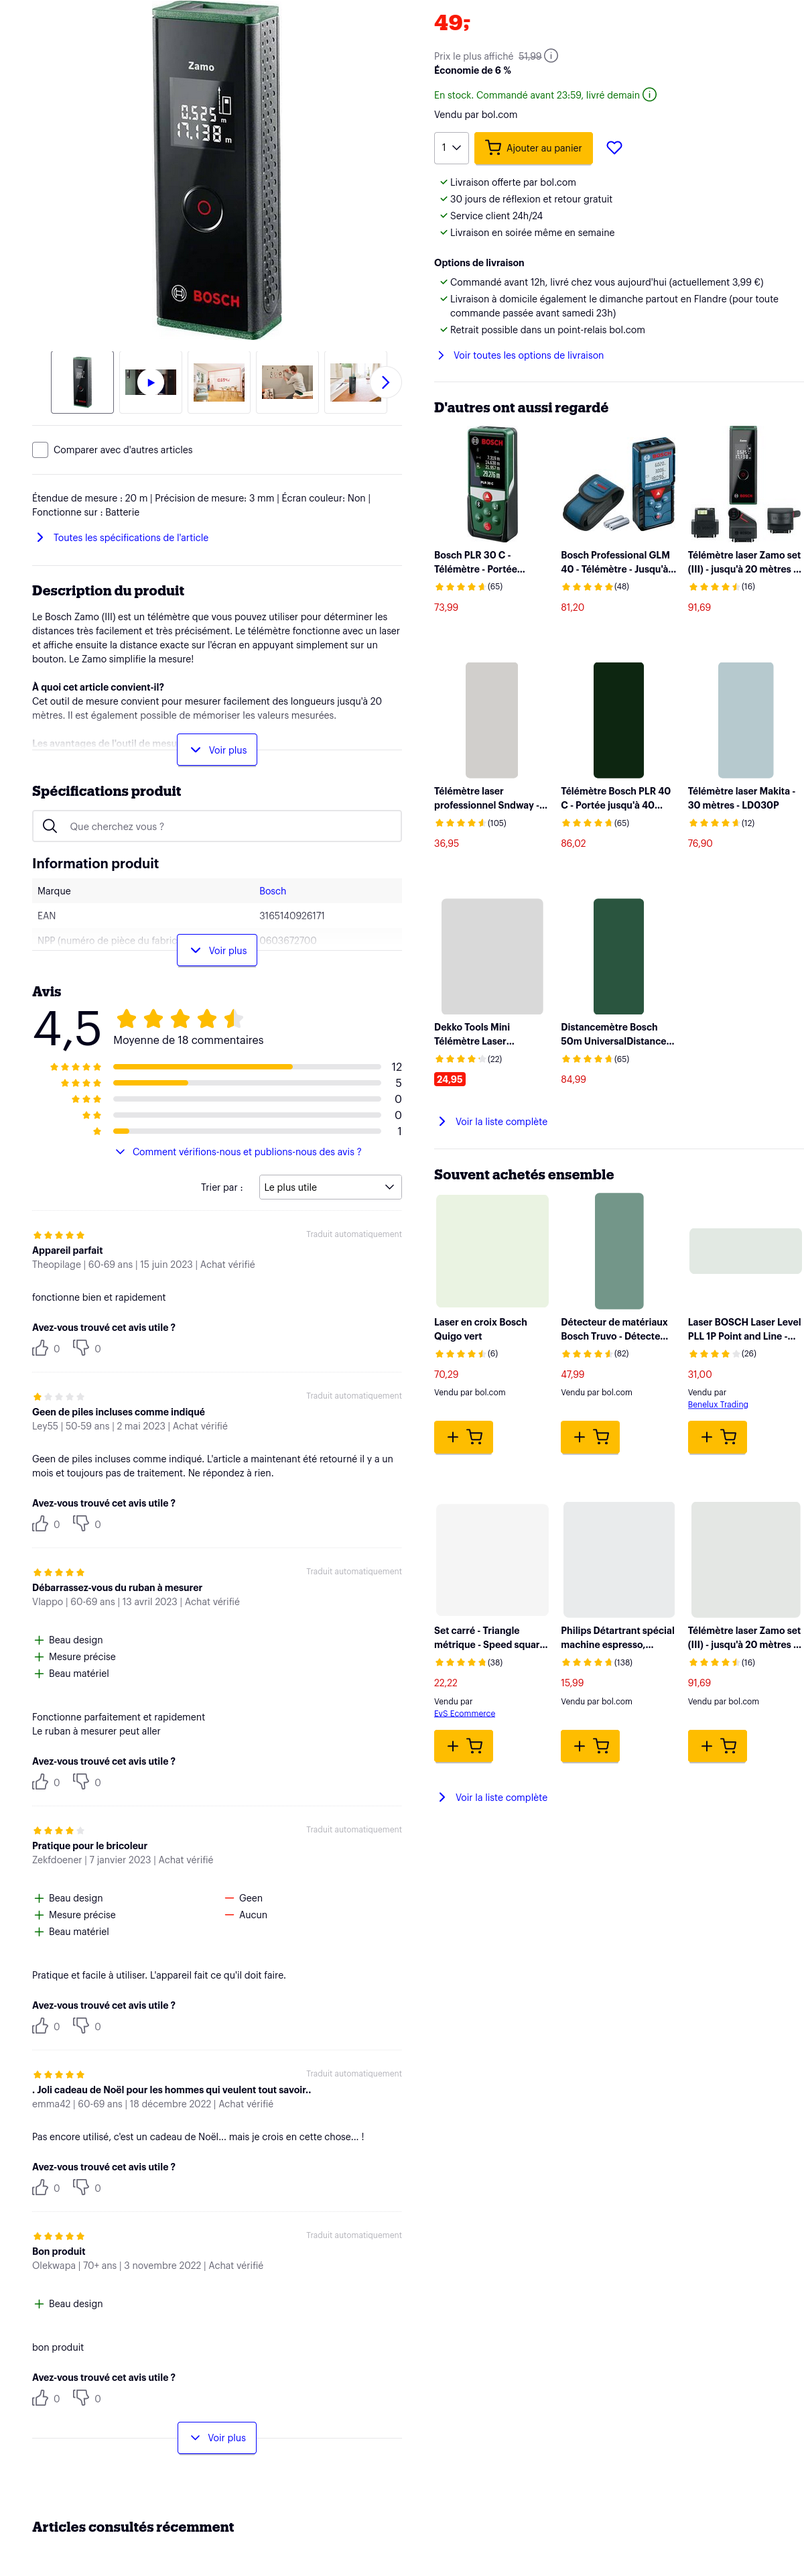
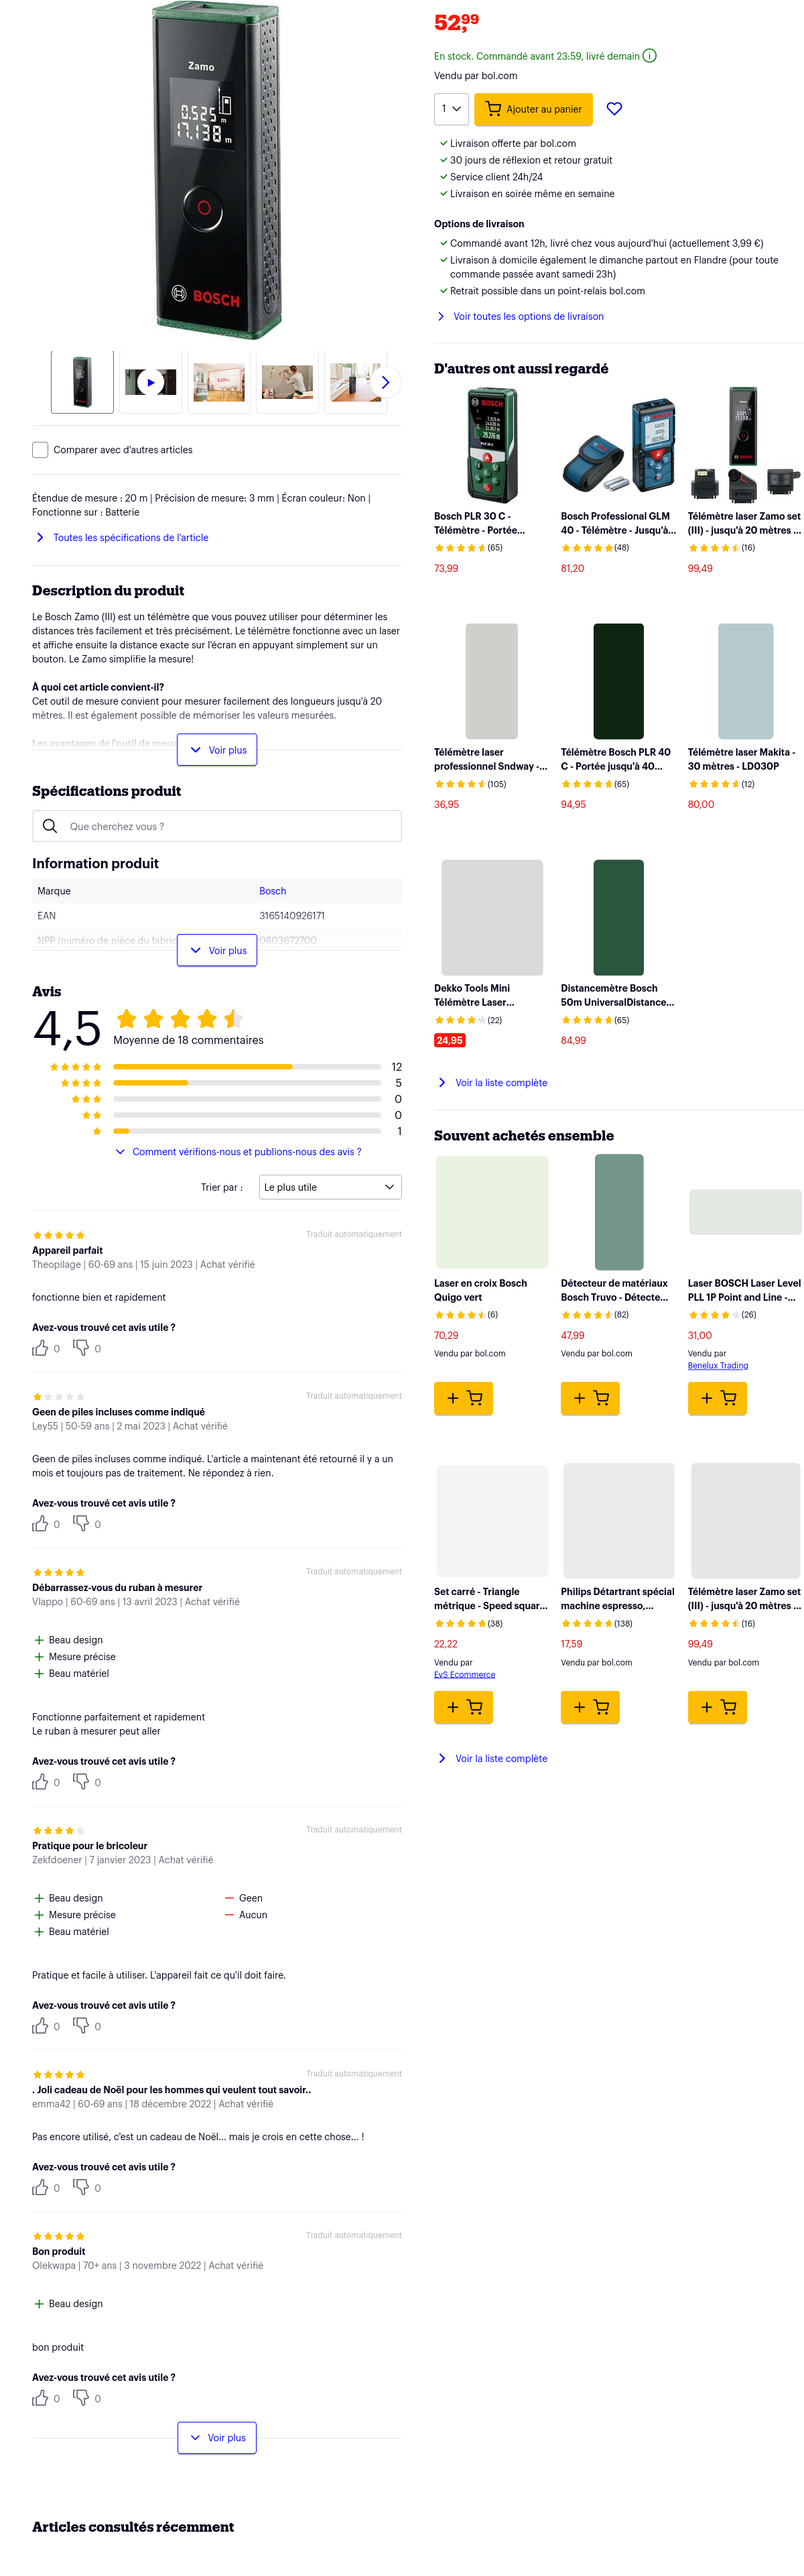
Latest scraping prices: Mon Aug 21 08:51:12 UTC 2023

diff --git a/scrapes/prices/bol-bosch-zamo.md b/scrapes/prices/bol-bosch-zamo.md
@@ -1,4 +1,4 @@
-49 <sup>-</sup>
+52 <sup>99</sup>
 
 ![](bol-bosch-zamo.png)
 
